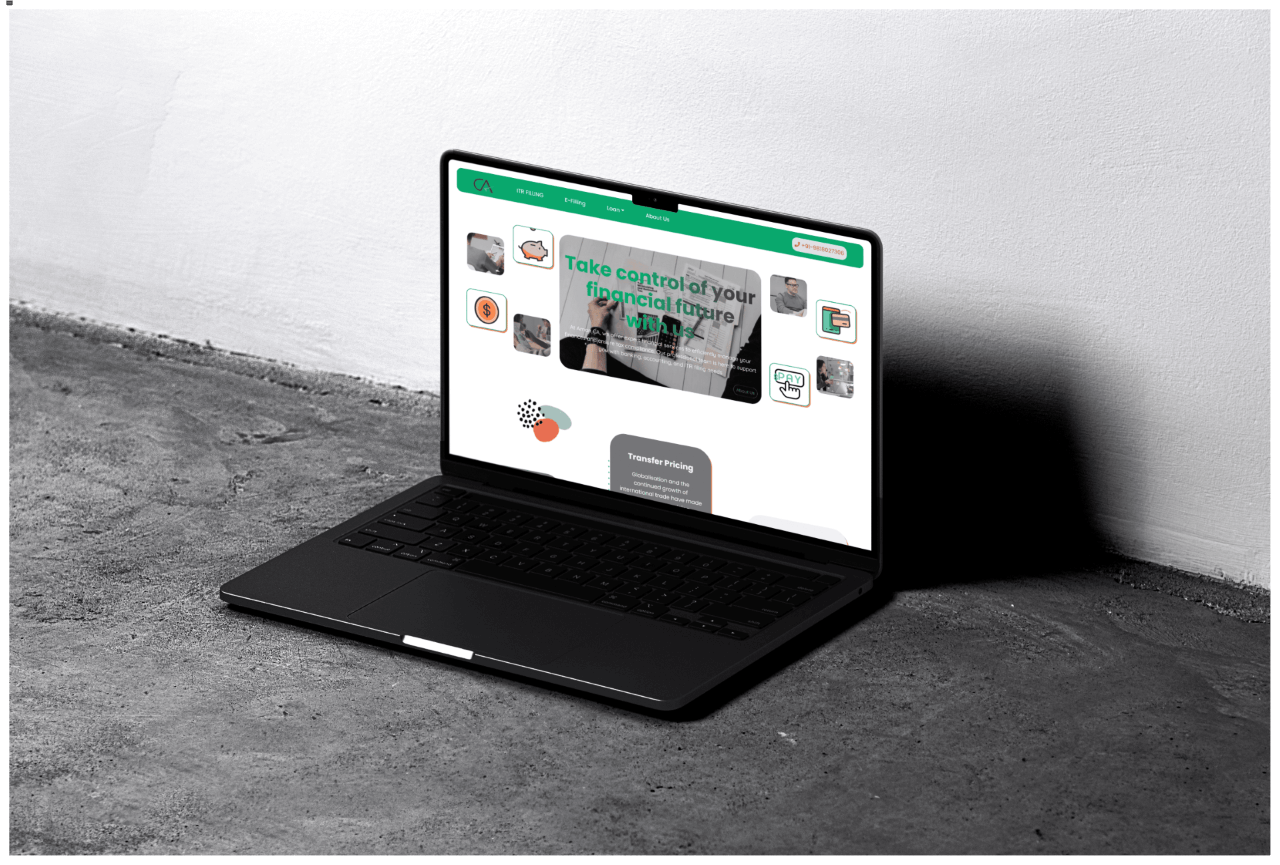
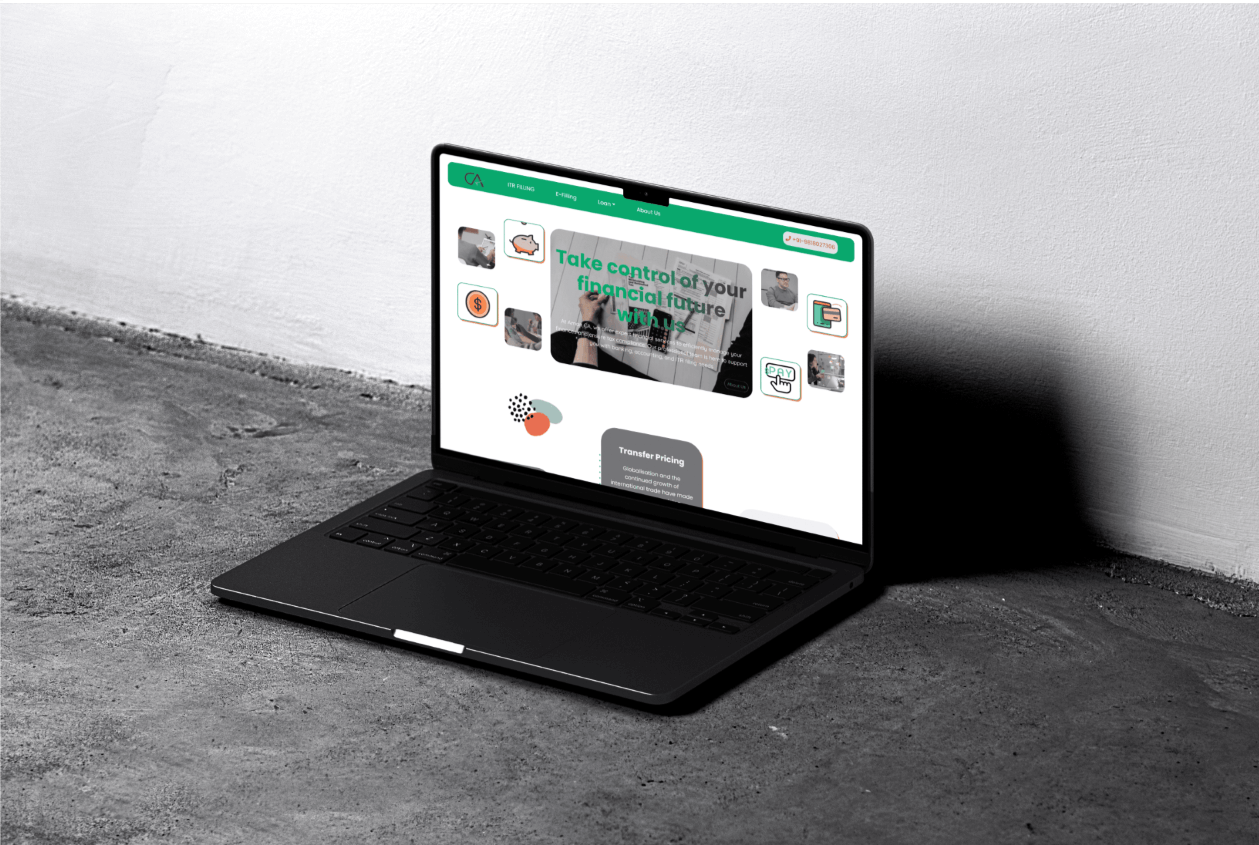
changed img of projects

Changed region(s): [[0.0, 0.0, 1.0, 1.0], [0.4337, 0.4923, 0.6195, 0.6154], [0.3098, 0.6462, 0.3717, 0.6769]]

diff --git a/src/pages/Projects.jsx b/src/pages/Projects.jsx
@@ -28,12 +28,19 @@ const projects = [
         description: 'Fraud Detection and Cyber Threat Intelligence.',
         url: 'https://app.fraudo.io/'
     },
+    // {
+    //     title: 'World Atlas',
+    //     used: 'ReactJs, CSS',
+    //     projImg: '/projects/world-Atlas.png',
+    //     description: 'An interactive world atlas with country details, map visuals, and quick search features.',
+    //     url: 'https://worldartlas.netlify.app/'
+    // },
     {
-        title: 'World Atlas',
-        used: 'ReactJs, CSS',
-        projImg: '/projects/world-Atlas.png',
-        description: 'An interactive world atlas with country details, map visuals, and quick search features.',
-        url: 'https://worldartlas.netlify.app/'
+        title: 'Consultancy Site',
+        used: 'HTML, CSS, Bootstrap, @mediaquery',
+        projImg: '/projects/consaltansy.png',
+        description: 'A responsive business consultancy website providing services overview and client testimonials.',
+        url: 'https://chetan8383.github.io/Consultancy-site/'
     },
     {
         title: 'FestLive',
@@ -41,13 +48,6 @@ const projects = [
         projImg: '/projects/festival.png',
         description: 'A landing page for a cultural festival showcasing event details, schedules, and highlights.',
         url: 'https://chetan8383.github.io/FestLive/'
-    },
-    {
-        title: 'Consultancy Site',
-        used: 'HTML, CSS, Bootstrap, @mediaquery',
-        projImg: '/projects/consaltansy.png',
-        description: 'A responsive business consultancy website providing services overview and client testimonials.',
-        url: 'https://chetan8383.github.io/Consultancy-site/'
     },
     {
         title: 'Lakshaya Computer Institute',
@@ -107,7 +107,7 @@ const Projects = () => {
             gsap.fromTo(img,
                 { scale: 1 }, // 👈 start normal
                 {
-                    scale: 1.015,
+                    scale: 1.1,
                     ease: "power1.inOut",
                     scrollTrigger: {
                         trigger: img,
